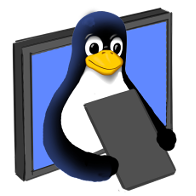
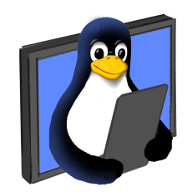
introduced splash screen

diff --git a/index.html b/index.html
@@ -23,6 +23,22 @@
     <link rel="stylesheet" type="text/css" href="css/keyframes.css" />
     <link rel="stylesheet" type="text/css" href="css/animation.css" />
 
+    <!-- Icons -->
+    <link rel="shortcut icon" sizes="196x196" href="assets/icon-highres.png">
+    <link rel="shortcut icon" sizes="128x128" href="assets/icon.png">
+    <link rel="apple-touch-icon" sizes="128x128" href="assets/icon.png">
+    <link rel="apple-touch-icon-precomposed" sizes="128x128" href="assets/icon.png">
+</head>
+
+<body>
+
+<div id="splash">
+    <img src="/assets/icon-highres.png">
+    <h1>Welcome to the Web App for VDR</h1>
+</div>
+
+
+
     <script type="text/javascript" src="js/VDRest/Lib/jquery-2.1.0.js"></script>
     <!-- Core -->
     <script type="text/javascript" src="js/VDRest/VDRest.js"></script>
@@ -170,14 +186,5 @@
     <script type="text/javascript" src="js/Gui/Form/Module.js"></script>
     <script type="text/javascript" src="js/Gui/Form/Controller/Abstract.js"></script>
     <script type="text/javascript" src="js/Gui/Form/View/Abstract.js"></script>
-
-    <!-- Icons -->
-    <link rel="shortcut icon" sizes="196x196" href="assets/icon-highres.png">
-    <link rel="shortcut icon" sizes="128x128" href="assets/icon.png">
-    <link rel="apple-touch-icon" sizes="128x128" href="assets/icon.png">
-    <link rel="apple-touch-icon-precomposed" sizes="128x128" href="assets/icon.png">
-</head>
-
-<body>
 </body>
 </html>

diff --git a/js/VDRest/VDRest.js b/js/VDRest/VDRest.js
@@ -86,6 +86,8 @@ VDRest.App.prototype.run = function () {
 	var start = 'Gui.Config', i,
         startConfig = VDRest.config.getItem('start');
 
+    document.getElementById('splash').parentNode.removeChild(document.getElementById('splash'));
+
     this.language = VDRest.config.getItem('language');
 
     if (this.isRegistered(startConfig)) {

diff --git a/css/default.css b/css/default.css
@@ -28,6 +28,19 @@ body {
     z-index: 0;
 }
 
+#splash {
+    margin-top: 20px;
+}
+
+#splash img {
+    margin: 0 auto;
+    display: block;
+}
+
+#splash * {
+    text-align: center;
+}
+
 ul {
     list-style-type: none;
 }
